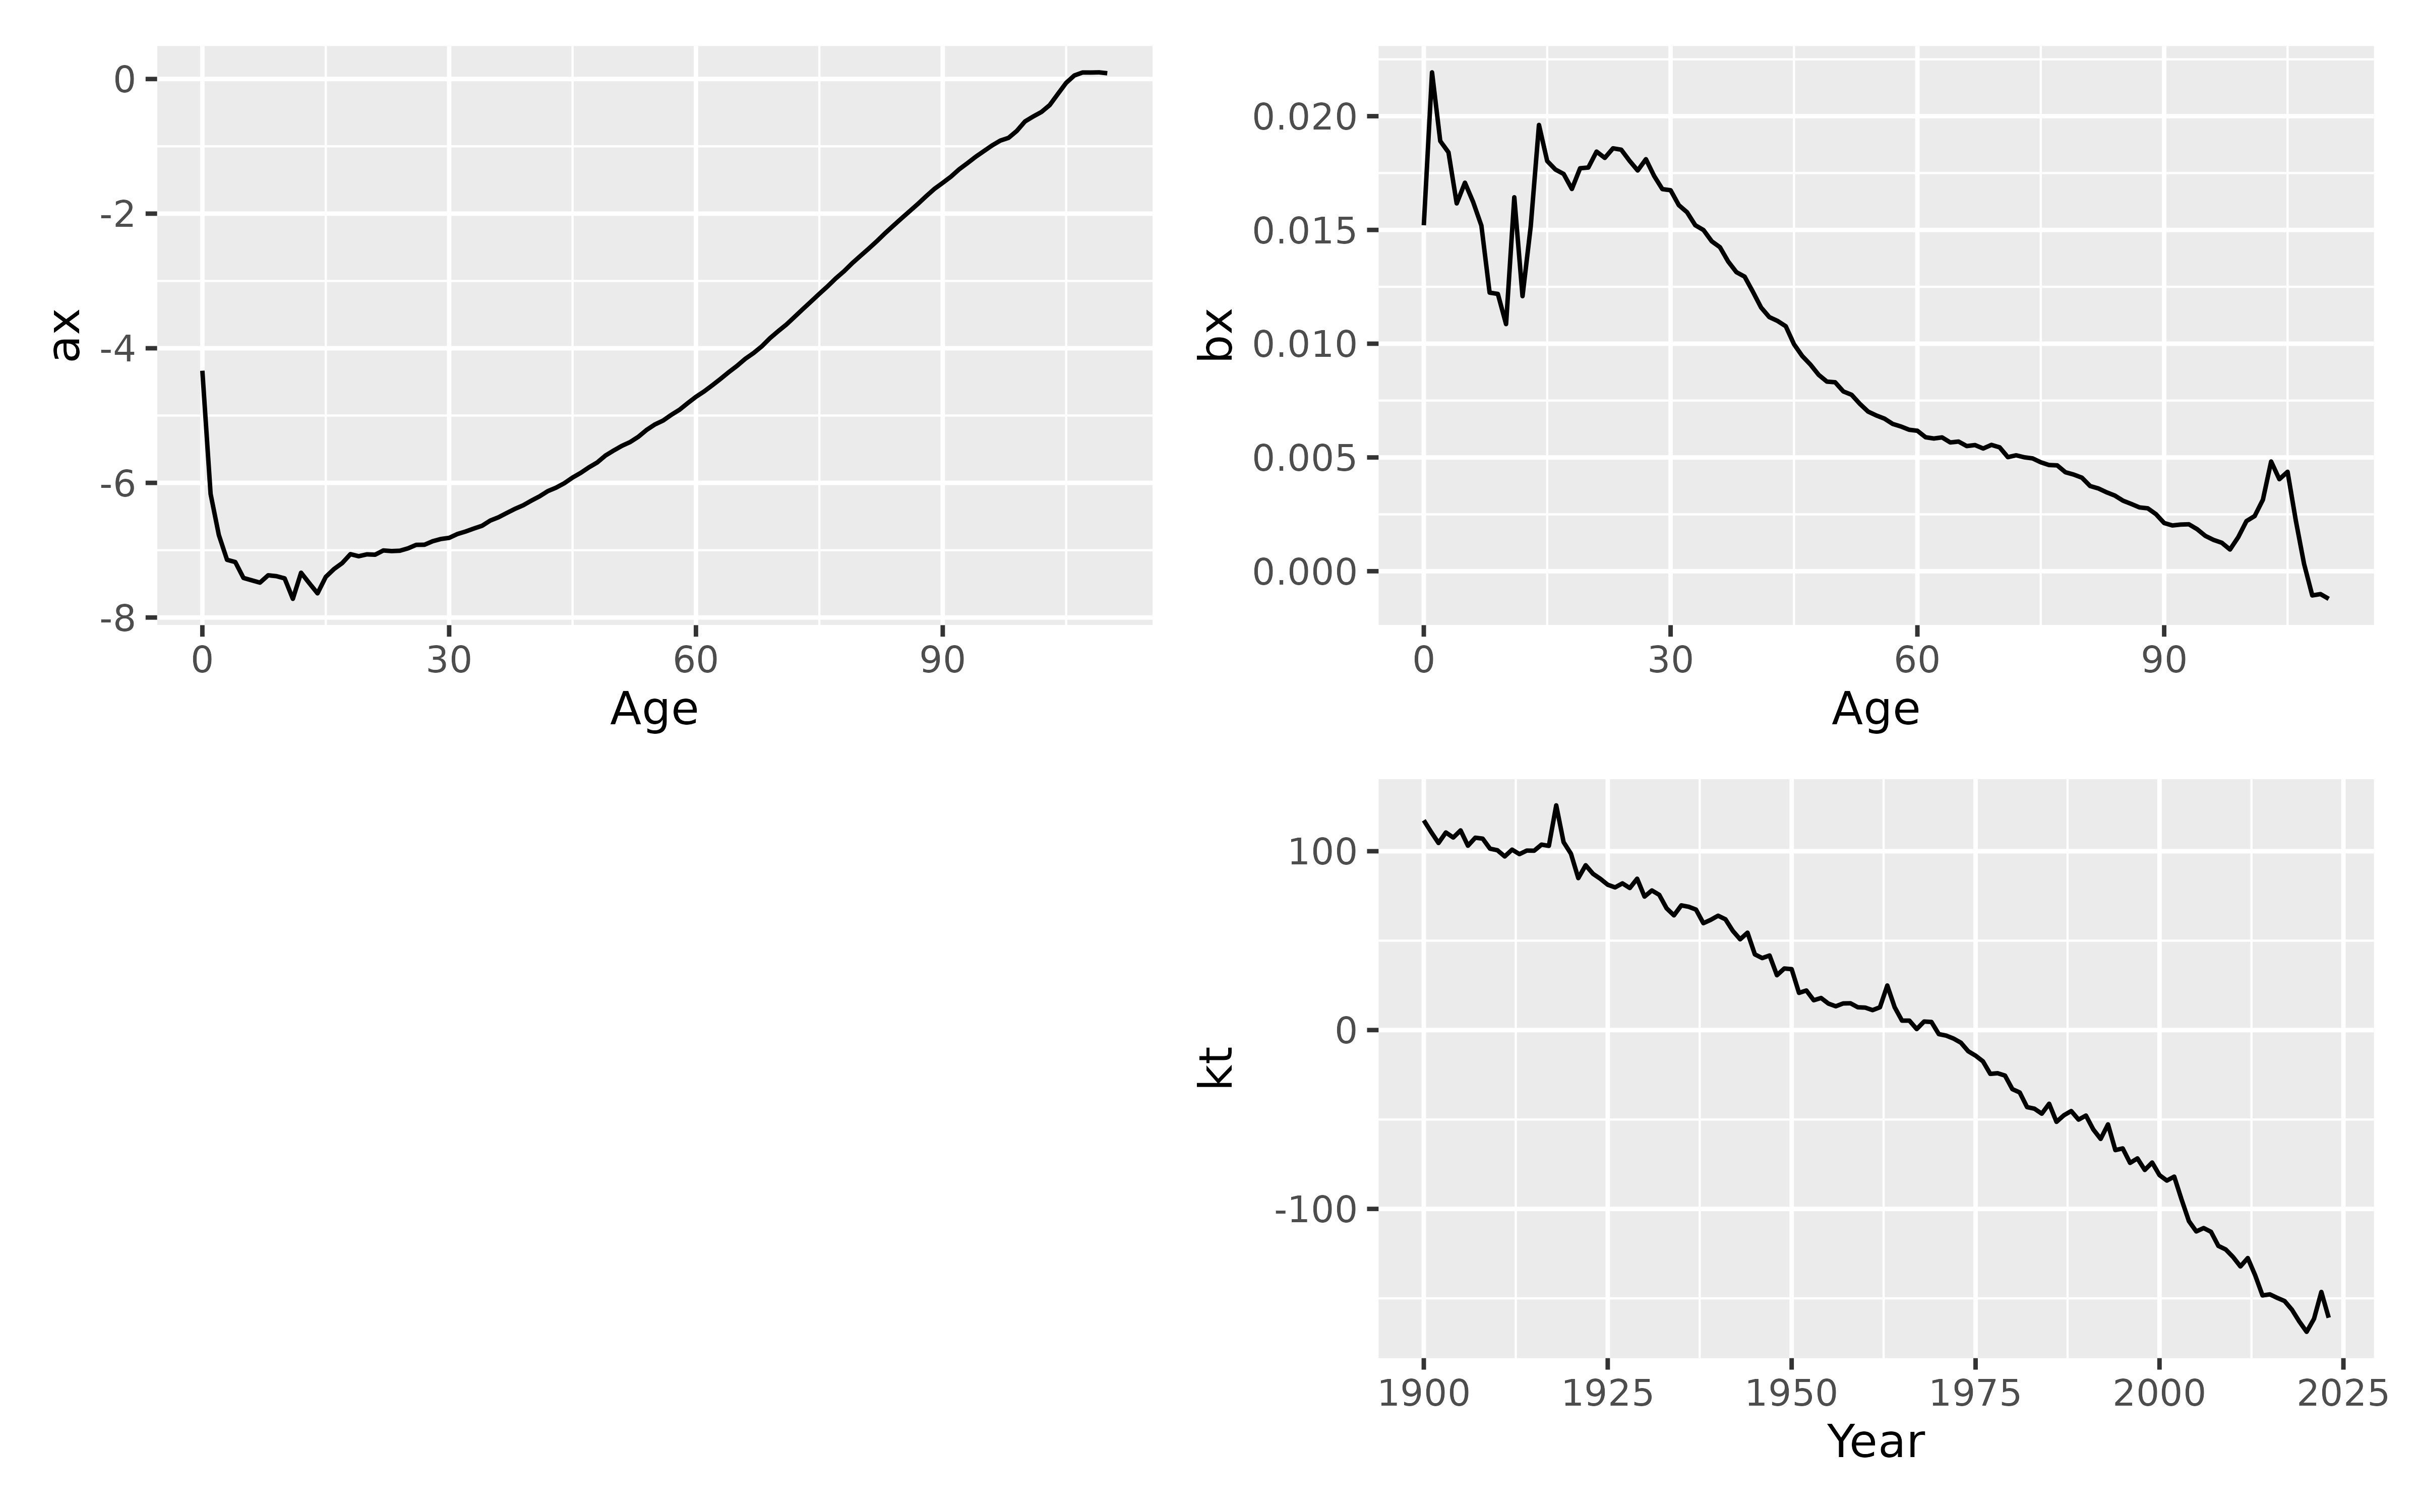
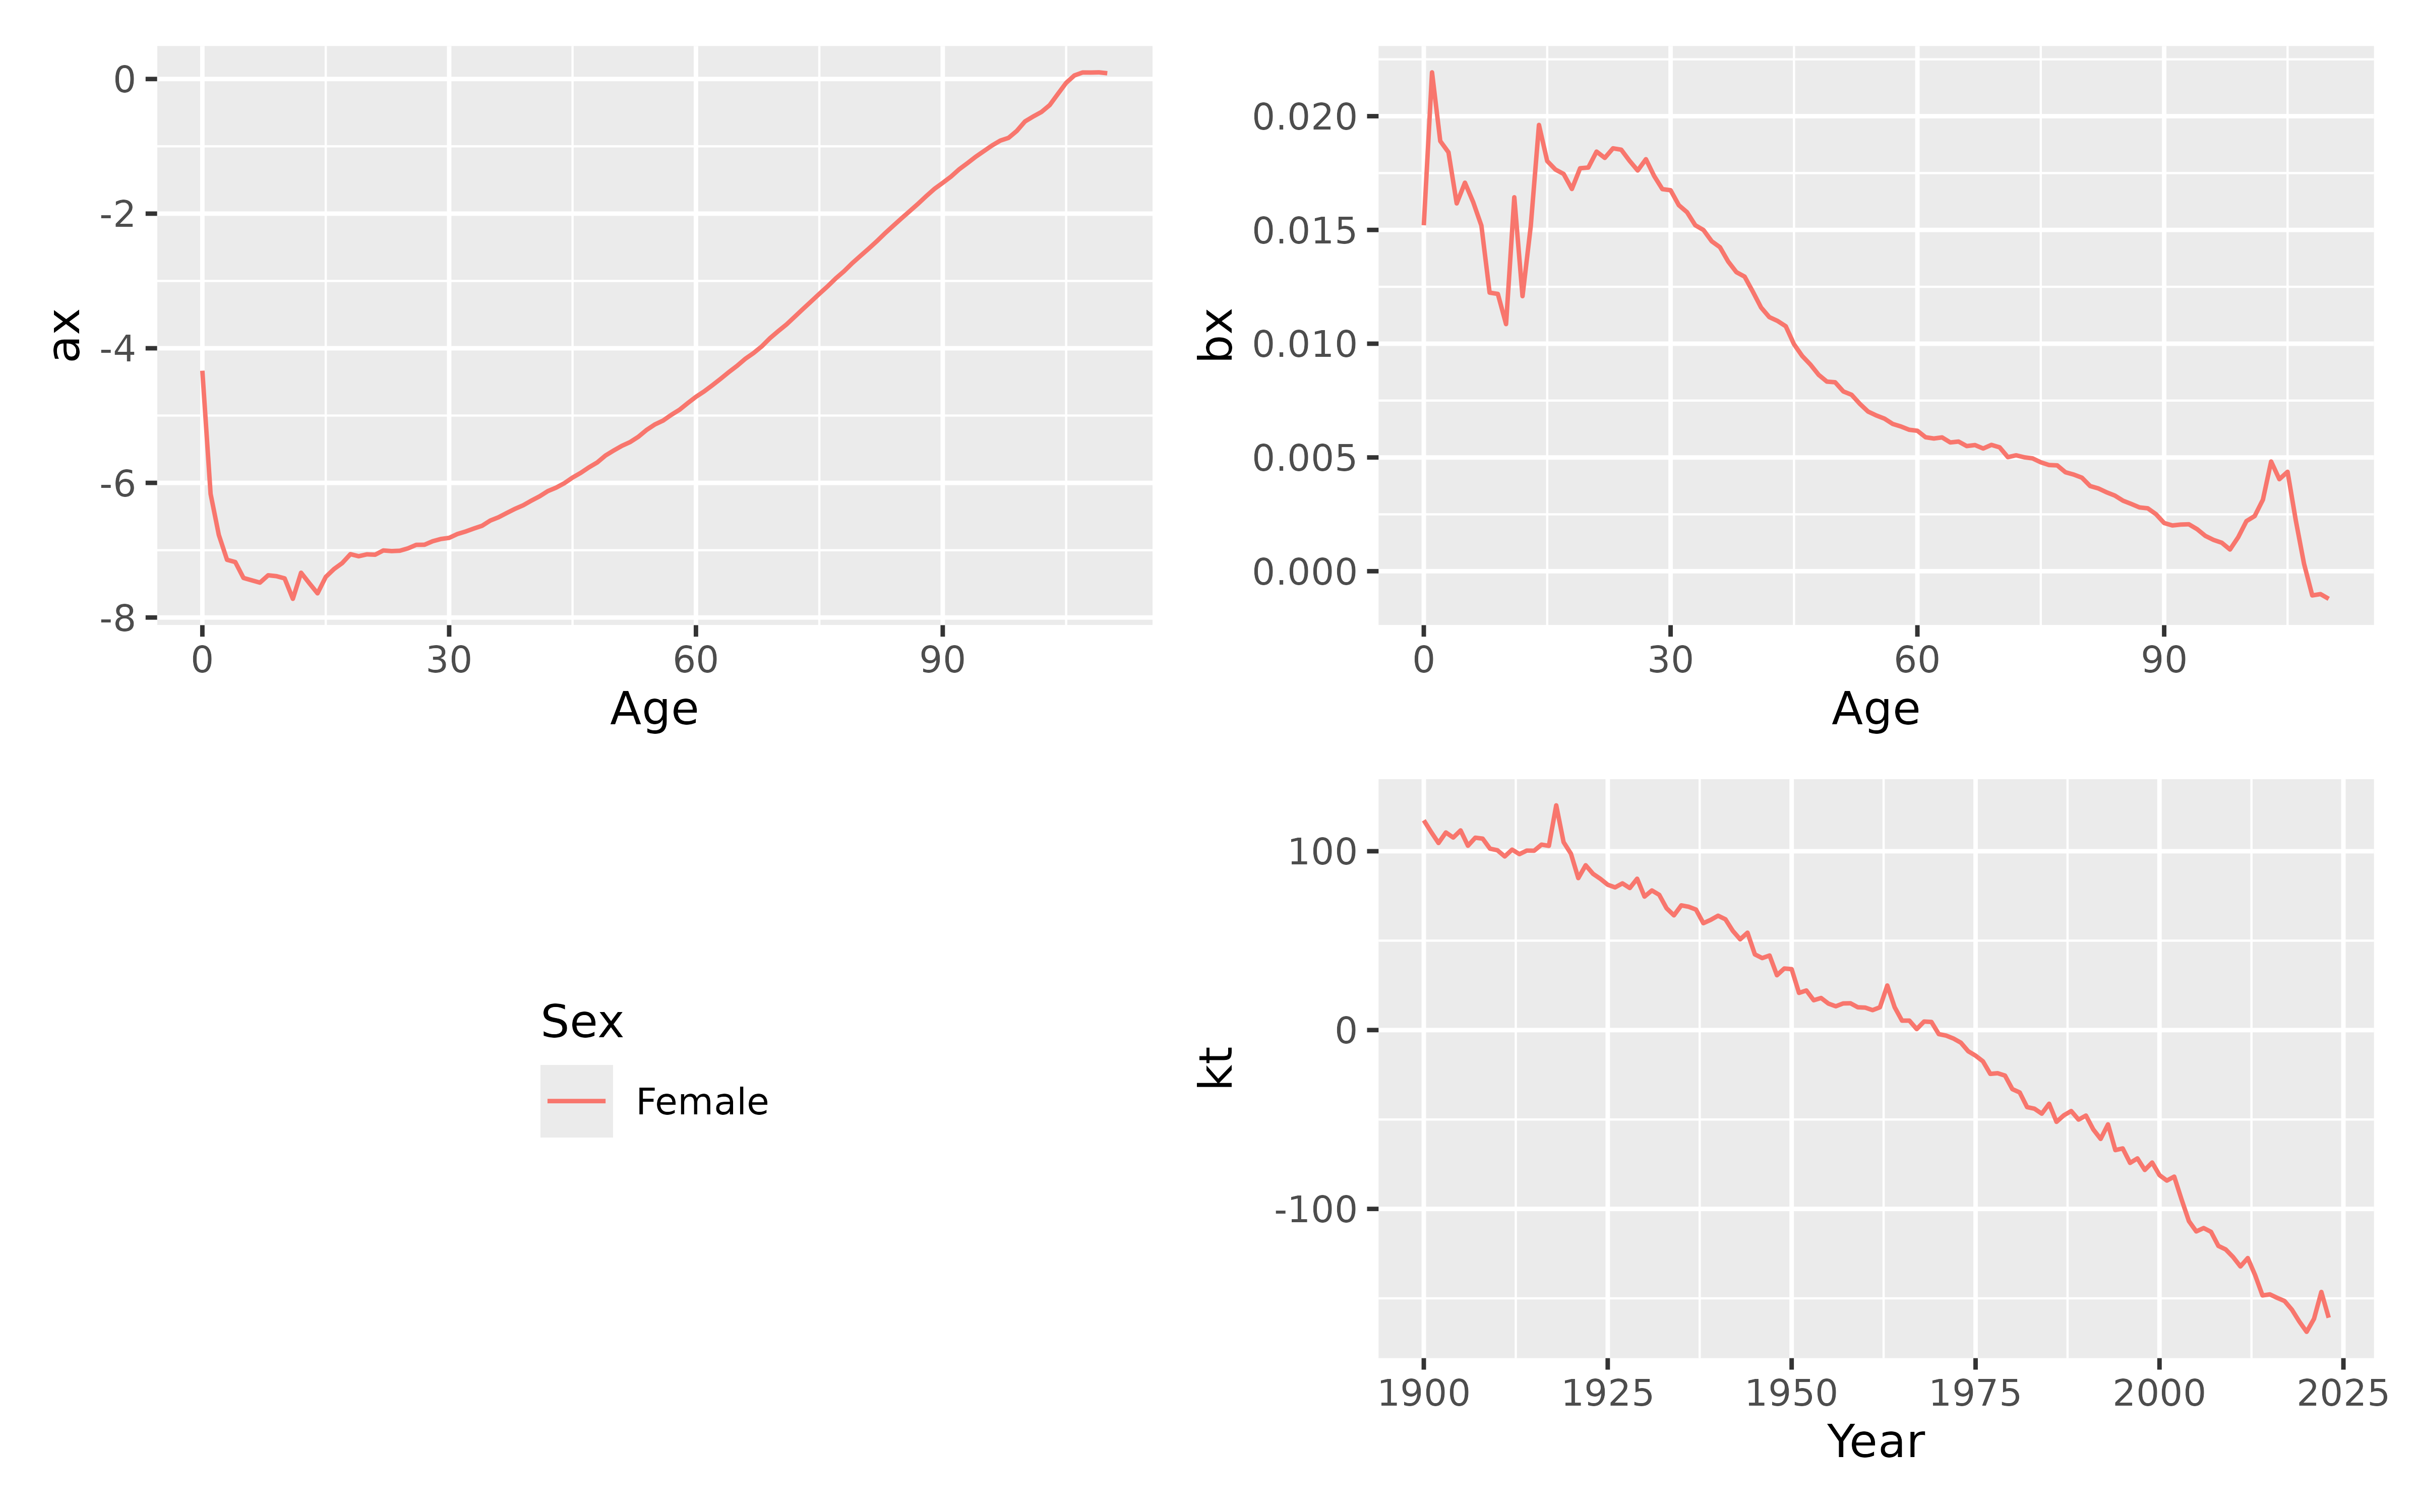
Deploying to gh-pages from @ robjhyndman/vital@c2449c8c19d29f6c86d07679c0cdb8ebce91d4b2 🚀

diff --git a/articles/intro.html b/articles/intro.html
@@ -340,6 +340,14 @@ replaced by <code>FDM</code>.</p>
 <span><span class="va">fdm</span> <span class="op">&lt;-</span> <span class="va">nor</span> <span class="op">|&gt;</span></span>
 <span>  <span class="fu"><a href="../reference/smooth_vital.html">smooth_mortality</a></span><span class="op">(</span><span class="va">Mortality</span><span class="op">)</span> <span class="op">|&gt;</span></span>
 <span>  <span class="fu"><a href="https://fabletools.tidyverts.org/reference/model.html" class="external-link">model</a></span><span class="op">(</span>hu <span class="op">=</span> <span class="fu"><a href="../reference/FDM.html">FDM</a></span><span class="op">(</span><span class="fu"><a href="https://rdrr.io/r/base/Log.html" class="external-link">log</a></span><span class="op">(</span><span class="va">.smooth</span><span class="op">)</span><span class="op">)</span><span class="op">)</span></span>
+<span><span class="co">#&gt; Registered S3 methods overwritten by 'ggtime':</span></span>
+<span><span class="co">#&gt;   method           from      </span></span>
+<span><span class="co">#&gt;   autolayer.fbl_ts fabletools</span></span>
+<span><span class="co">#&gt;   autolayer.tbl_ts fabletools</span></span>
+<span><span class="co">#&gt;   autoplot.dcmp_ts fabletools</span></span>
+<span><span class="co">#&gt;   autoplot.fbl_ts  fabletools</span></span>
+<span><span class="co">#&gt;   autoplot.tbl_ts  fabletools</span></span>
+<span><span class="co">#&gt;   fortify.fbl_ts   fabletools</span></span>
 <span><span class="va">fc_fdm</span> <span class="op">&lt;-</span> <span class="va">fdm</span> <span class="op">|&gt;</span></span>
 <span>  <span class="fu"><a href="https://generics.r-lib.org/reference/forecast.html" class="external-link">forecast</a></span><span class="op">(</span>h <span class="op">=</span> <span class="fl">20</span><span class="op">)</span></span>
 <span><span class="fu"><a href="https://ggplot2.tidyverse.org/reference/autoplot.html" class="external-link">autoplot</a></span><span class="op">(</span><span class="va">fc_fdm</span><span class="op">)</span> <span class="op">+</span></span>

diff --git a/articles/population_forecasting.html b/articles/population_forecasting.html
@@ -137,6 +137,14 @@ are plotted here.</p>
 <span>  <span class="fu"><a href="../reference/smooth_vital.html">smooth_mortality</a></span><span class="op">(</span><span class="va">Mortality</span><span class="op">)</span> <span class="op">|&gt;</span></span>
 <span>  <span class="fu"><a href="../reference/make_pr.html">make_pr</a></span><span class="op">(</span><span class="va">.smooth</span><span class="op">)</span> <span class="op">|&gt;</span></span>
 <span>  <span class="fu"><a href="https://fabletools.tidyverts.org/reference/model.html" class="external-link">model</a></span><span class="op">(</span>fdm <span class="op">=</span> <span class="fu"><a href="../reference/FDM.html">FDM</a></span><span class="op">(</span><span class="fu"><a href="https://rdrr.io/r/base/Log.html" class="external-link">log</a></span><span class="op">(</span><span class="va">.smooth</span><span class="op">)</span>, coherent <span class="op">=</span> <span class="cn">TRUE</span><span class="op">)</span><span class="op">)</span></span>
+<span><span class="co">#&gt; Registered S3 methods overwritten by 'ggtime':</span></span>
+<span><span class="co">#&gt;   method           from      </span></span>
+<span><span class="co">#&gt;   autolayer.fbl_ts fabletools</span></span>
+<span><span class="co">#&gt;   autolayer.tbl_ts fabletools</span></span>
+<span><span class="co">#&gt;   autoplot.dcmp_ts fabletools</span></span>
+<span><span class="co">#&gt;   autoplot.fbl_ts  fabletools</span></span>
+<span><span class="co">#&gt;   autoplot.tbl_ts  fabletools</span></span>
+<span><span class="co">#&gt;   fortify.fbl_ts   fabletools</span></span>
 <span><span class="fu"><a href="https://ggplot2.tidyverse.org/reference/autoplot.html" class="external-link">autoplot</a></span><span class="op">(</span><span class="va">fit_mortality</span>, <span class="fl">2</span><span class="op">)</span></span></code></pre></div>
 <p><img src="population_forecasting_files/figure-html/mortality-1.png" class="r-plt" alt="First two components of the functional data model for mortality rates." width="100%"></p>
 </div>

diff --git a/reference/FDM.html b/reference/FDM.html
@@ -120,6 +120,14 @@ forecasting: the product-ratio method with functional time series models.
 <span class="r-in"><span>  <span class="fu">dplyr</span><span class="fu">::</span><span class="fu"><a href="https://dplyr.tidyverse.org/reference/filter.html" class="external-link">filter</a></span><span class="op">(</span><span class="va">Sex</span> <span class="op">==</span> <span class="st">"Female"</span>, <span class="va">Year</span> <span class="op">&gt;</span> <span class="fl">2010</span><span class="op">)</span> <span class="op">|&gt;</span></span></span>
 <span class="r-in"><span>  <span class="fu"><a href="smooth_vital.html">smooth_mortality</a></span><span class="op">(</span><span class="va">Mortality</span><span class="op">)</span> <span class="op">|&gt;</span></span></span>
 <span class="r-in"><span>  <span class="fu"><a href="https://fabletools.tidyverts.org/reference/model.html" class="external-link">model</a></span><span class="op">(</span>hyndman_ullah <span class="op">=</span> <span class="fu">FDM</span><span class="op">(</span><span class="fu"><a href="https://rdrr.io/r/base/Log.html" class="external-link">log</a></span><span class="op">(</span><span class="va">.smooth</span><span class="op">)</span><span class="op">)</span><span class="op">)</span></span></span>
+<span class="r-msg co"><span class="r-pr">#&gt;</span> Registered S3 methods overwritten by 'ggtime':</span>
+<span class="r-msg co"><span class="r-pr">#&gt;</span>   method           from      </span>
+<span class="r-msg co"><span class="r-pr">#&gt;</span>   autolayer.fbl_ts fabletools</span>
+<span class="r-msg co"><span class="r-pr">#&gt;</span>   autolayer.tbl_ts fabletools</span>
+<span class="r-msg co"><span class="r-pr">#&gt;</span>   autoplot.dcmp_ts fabletools</span>
+<span class="r-msg co"><span class="r-pr">#&gt;</span>   autoplot.fbl_ts  fabletools</span>
+<span class="r-msg co"><span class="r-pr">#&gt;</span>   autoplot.tbl_ts  fabletools</span>
+<span class="r-msg co"><span class="r-pr">#&gt;</span>   fortify.fbl_ts   fabletools</span>
 <span class="r-in"><span><span class="fu"><a href="https://fabletools.tidyverts.org/reference/report.html" class="external-link">report</a></span><span class="op">(</span><span class="va">hu</span><span class="op">)</span></span></span>
 <span class="r-out co"><span class="r-pr">#&gt;</span> Series: .smooth </span>
 <span class="r-out co"><span class="r-pr">#&gt;</span> Model: FDM </span>

diff --git a/articles/intro.md b/articles/intro.md
@@ -318,6 +318,14 @@ then modelling with `LC` replaced by `FDM`.
 fdm <- nor |>
   smooth_mortality(Mortality) |>
   model(hu = FDM(log(.smooth)))
+#> Registered S3 methods overwritten by 'ggtime':
+#>   method           from      
+#>   autolayer.fbl_ts fabletools
+#>   autolayer.tbl_ts fabletools
+#>   autoplot.dcmp_ts fabletools
+#>   autoplot.fbl_ts  fabletools
+#>   autoplot.tbl_ts  fabletools
+#>   fortify.fbl_ts   fabletools
 fc_fdm <- fdm |>
   forecast(h = 20)
 autoplot(fc_fdm) +

diff --git a/articles/population_forecasting.md b/articles/population_forecasting.md
@@ -48,6 +48,14 @@ fit_mortality <- norway_mortality |>
   smooth_mortality(Mortality) |>
   make_pr(.smooth) |>
   model(fdm = FDM(log(.smooth), coherent = TRUE))
+#> Registered S3 methods overwritten by 'ggtime':
+#>   method           from      
+#>   autolayer.fbl_ts fabletools
+#>   autolayer.tbl_ts fabletools
+#>   autoplot.dcmp_ts fabletools
+#>   autoplot.fbl_ts  fabletools
+#>   autoplot.tbl_ts  fabletools
+#>   fortify.fbl_ts   fabletools
 autoplot(fit_mortality, 2)
 ```
 

diff --git a/reference/FDM.md b/reference/FDM.md
@@ -82,6 +82,14 @@ hu <- norway_mortality |>
   dplyr::filter(Sex == "Female", Year > 2010) |>
   smooth_mortality(Mortality) |>
   model(hyndman_ullah = FDM(log(.smooth)))
+#> Registered S3 methods overwritten by 'ggtime':
+#>   method           from      
+#>   autolayer.fbl_ts fabletools
+#>   autolayer.tbl_ts fabletools
+#>   autoplot.dcmp_ts fabletools
+#>   autoplot.fbl_ts  fabletools
+#>   autoplot.tbl_ts  fabletools
+#>   fortify.fbl_ts   fabletools
 report(hu)
 #> Series: .smooth 
 #> Model: FDM 